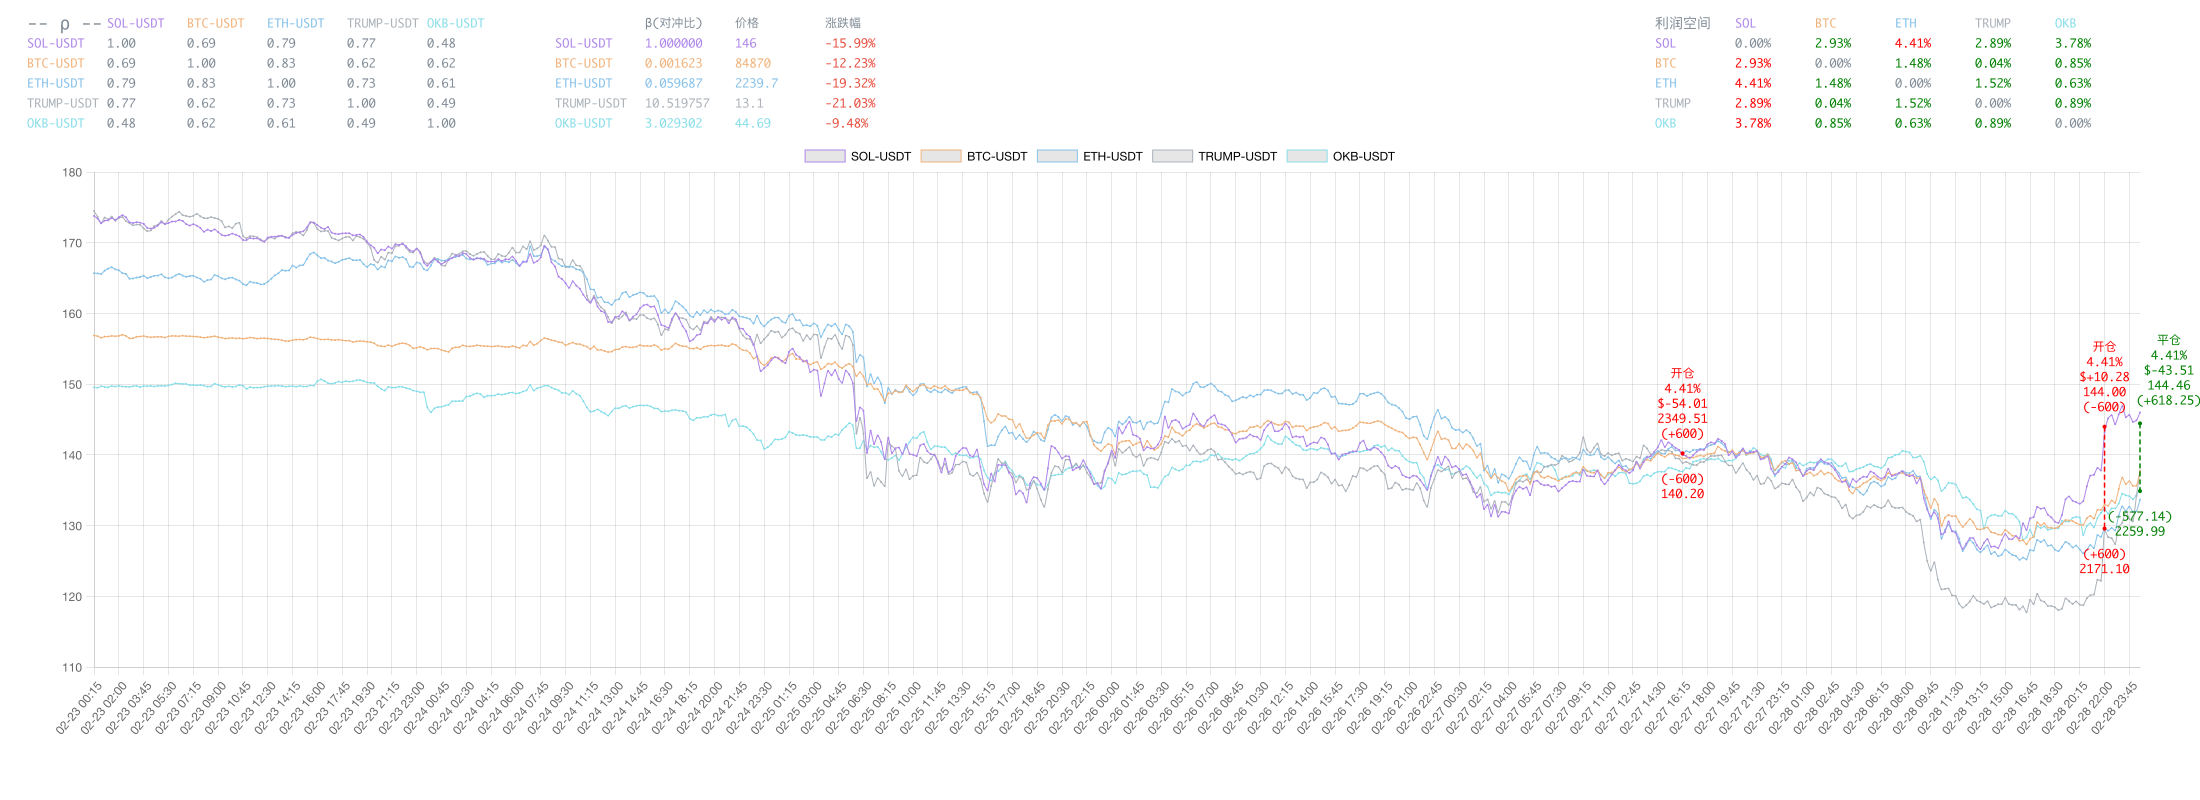
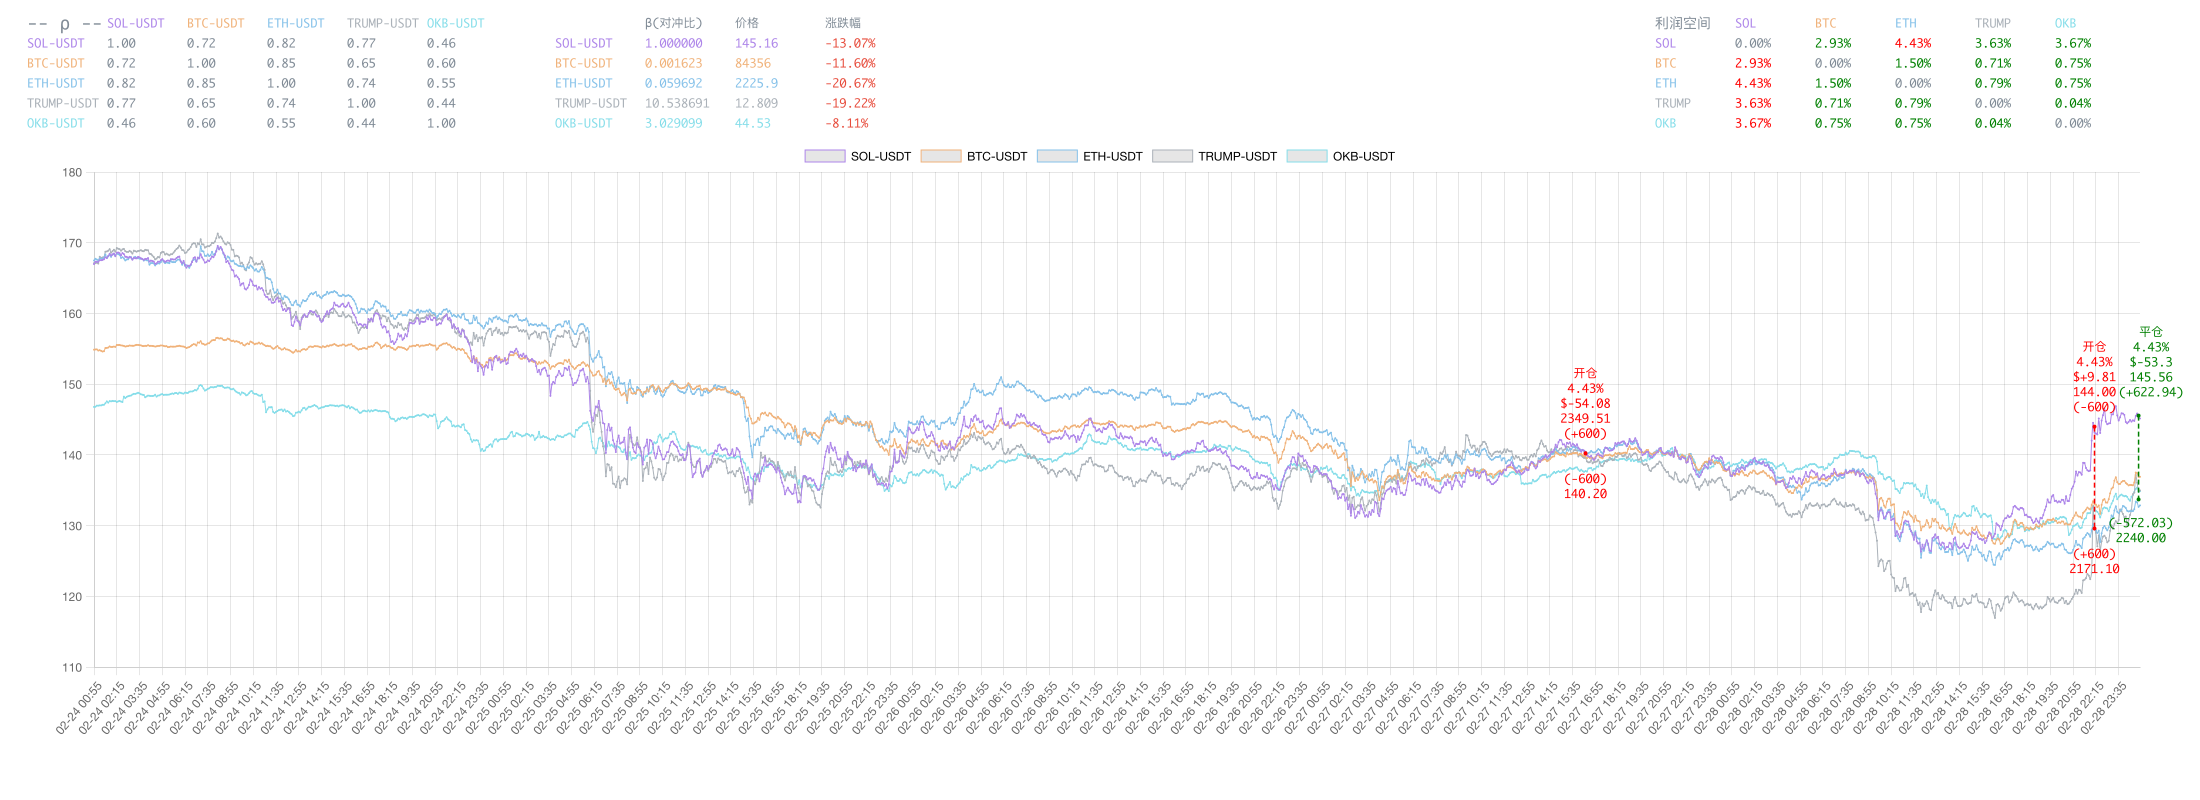
补充实时价格本地化

Changed region(s): [[0.0309, 0.25, 1.0, 0.7812], [0.0309, 0.8438, 0.9891, 0.9375], [0.3709, 0.0938, 0.4018, 0.1562]]

diff --git a/src/TradeEngine/TradeEngine.js b/src/TradeEngine/TradeEngine.js
@@ -1,4 +1,4 @@
-import { getLastTransactions, recordBetaMap, updateTransaction } from "../recordTools.js";
+import { getLastTransactions, recordBetaMap, recordPrice, updateTransaction } from "../recordTools.js";
 import { findBestFitLine } from "../regression.js";
 import { createMapFrom, formatTimestamp } from "../tools.js";
 import { HedgeProcessor } from "./HedgeProcessor.js";
@@ -279,6 +279,7 @@ export class TradeEngine{
 
     // 更新实时价格
     this.realtime_price[assetId] = sorted_prices.at(-1);
+    recordPrice(assetId, this.realtime_price[assetId]);
     // this._status
   }
 
@@ -343,6 +344,7 @@ static updatePrice(assetId, price, ts, bar) {
   }
   // 更新实时价格
   this.realtime_price[assetId] = existingPrices.at(-1);
+  recordPrice(assetId, this.realtime_price[assetId]);
 }
 
   /**
@@ -421,6 +423,7 @@ static updatePrice(assetId, price, ts, bar) {
   static start(){
     const status = this.checkEngine();
     if(status == 2){
+      this.refreshBeta();
       this.refreshTransactions()
     } else if(status == 1){
       console.log('启动完成,进行初始化...')

diff --git a/main.js b/main.js
@@ -13,7 +13,7 @@ const ws_connection_pool={}
 // storeConnection('ws_private', ws_private);
 
 const gate = 10.1;
-const bar_type = '15m';
+const bar_type = '5m';
 const price_type = 'close'
 const once_limit = 300;
 const candle_limit =2000;
